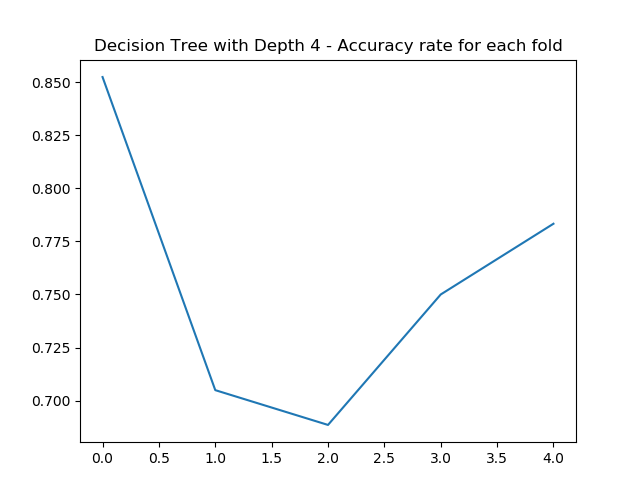
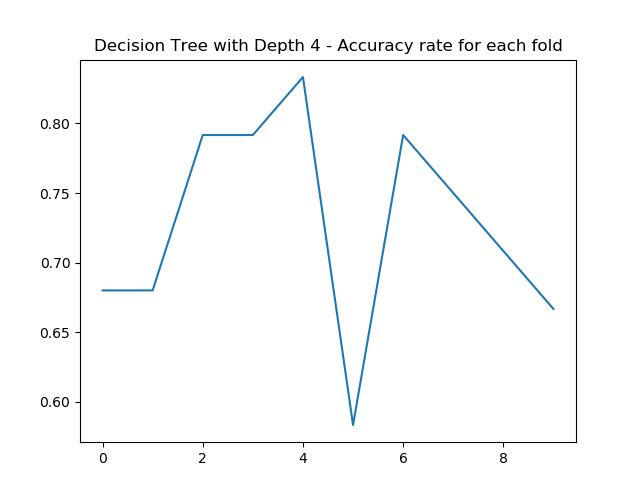
changes for Random Forest

diff --git a/RandomForest/random_forest.py b/RandomForest/random_forest.py
@@ -15,6 +15,8 @@ from sklearn.model_selection import train_test_split
 from sklearn.model_selection import KFold
 from sklearn import neighbors
 import numpy as np
+from itertools import product
+import seaborn as sns
 
 def get_accuracy(y_test,predictions):
     result = confusion_matrix(y_test, predictions)
@@ -34,8 +36,12 @@ X = df[var_cols].copy()
 Y = df[target_col].values.flatten()
 
 number_cardiac_case = sum(Y)
-number_non_spam = n - number_cardiac_case
+number_non_cardiac_cases = n - number_cardiac_case
 number_features = len(df.columns)-1
+
+print("Number of cardiac cases is " + str(number_cardiac_case))
+print("Number of non-cardiac cases is " + str(number_non_cardiac_cases))
+
 
 depth = 4
 clf = tree.DecisionTreeClassifier(max_depth=depth)
@@ -52,60 +58,60 @@ plt.show()
 # tree.plot_tree(clf.fit(X, Y), max_depth=4, fontsize=10)
 # plt.show()
 
-X_train, X_test, y_train, y_test = train_test_split(X, Y, test_size=0.2, random_state=42)
+# X_train, X_test, y_train, y_test = train_test_split(X, Y, test_size=0.2, random_state=42)
+#
+# list_depths = list(range(1,20))
+# list_miss_rate = []
+# list_roc_auc_score =[]
+# for depth in list_depths:
+#     clf = tree.DecisionTreeClassifier(max_depth=depth, random_state = 42)
+#     clf = clf.fit(X_train, y_train)
+#     predictions = clf.predict(X_test)
+#     accuracy_of_0, accuracy_of_1, total_accuracy = get_accuracy(y_test, predictions)
+#     miss_rate = 1-total_accuracy
+#     roc_score = roc_auc_score(y_test, predictions)
+#     list_miss_rate.append(miss_rate)
+#     list_roc_auc_score.append(roc_score)
+#
+# fig = plt.figure()
+# ax = plt.axes()
+# plt.title("Decision Tree - AUC score by Tree Depth")
+# plt.plot(list_depths, list_roc_auc_score)
+# plt.show()
+#
+# fig = plt.figure()
+# ax = plt.axes()
+# plt.title("Decision Tree - Misclassification rate by Tree Depth")
+# plt.plot(list_depths, list_miss_rate)
+# plt.show()
+#
+#
+# list_depths = list(range(1,20))
+# list_miss_rate = []
+# list_roc_auc_score =[]
+# for depth in list_depths:
+#     clf = RandomForestClassifier(max_depth=depth, random_state = 42)
+#     clf = clf.fit(X_train, y_train)
+#     predictions = clf.predict(X_test)
+#     accuracy_of_0, accuracy_of_1, total_accuracy = get_accuracy(y_test, predictions)
+#     miss_rate = 1-total_accuracy
+#     roc_score = roc_auc_score(y_test, predictions)
+#     list_miss_rate.append(miss_rate)
+#     list_roc_auc_score.append(roc_score)
+#
+# fig = plt.figure()
+# ax = plt.axes()
+# plt.title("Random Forest - AUC score by Tree Depth")
+# plt.plot(list_depths, list_roc_auc_score)
+# plt.show()
+#
+# fig = plt.figure()
+# ax = plt.axes()
+# plt.title("Random Forest - Misclassification rate by Tree Depth")
+# plt.plot(list_depths, list_miss_rate)
+# plt.show()
 
-list_depths = list(range(1,20))
-list_miss_rate = []
-list_roc_auc_score =[]
-for depth in list_depths:
-    clf = tree.DecisionTreeClassifier(max_depth=depth, random_state = 42)
-    clf = clf.fit(X_train, y_train)
-    predictions = clf.predict(X_test)
-    accuracy_of_0, accuracy_of_1, total_accuracy = get_accuracy(y_test, predictions)
-    miss_rate = 1-total_accuracy
-    roc_score = roc_auc_score(y_test, predictions)
-    list_miss_rate.append(miss_rate)
-    list_roc_auc_score.append(roc_score)
-
-fig = plt.figure()
-ax = plt.axes()
-plt.title("Decision Tree - AUC score by Tree Depth")
-plt.plot(list_depths, list_roc_auc_score)
-plt.show()
-
-fig = plt.figure()
-ax = plt.axes()
-plt.title("Decision Tree - Misclassification rate by Tree Depth")
-plt.plot(list_depths, list_miss_rate)
-plt.show()
-
-
-list_depths = list(range(1,20))
-list_miss_rate = []
-list_roc_auc_score =[]
-for depth in list_depths:
-    clf = RandomForestClassifier(max_depth=depth, random_state = 42)
-    clf = clf.fit(X_train, y_train)
-    predictions = clf.predict(X_test)
-    accuracy_of_0, accuracy_of_1, total_accuracy = get_accuracy(y_test, predictions)
-    miss_rate = 1-total_accuracy
-    roc_score = roc_auc_score(y_test, predictions)
-    list_miss_rate.append(miss_rate)
-    list_roc_auc_score.append(roc_score)
-
-fig = plt.figure()
-ax = plt.axes()
-plt.title("Random Forest - AUC score by Tree Depth")
-plt.plot(list_depths, list_roc_auc_score)
-plt.show()
-
-fig = plt.figure()
-ax = plt.axes()
-plt.title("Random Forest - Misclassification rate by Tree Depth")
-plt.plot(list_depths, list_miss_rate)
-plt.show()
-
-no_splits=5
+no_splits=10
 cv = KFold(n_splits=no_splits, random_state=42, shuffle=True)
 
 # ### Now doing CV fold to accurately estimate accuracy
@@ -130,7 +136,7 @@ plt.plot(list(range(no_splits)),accuracy_folds)
 print("Average Random Forest with Depth 4 accuracy is :" + str(round(np.mean(accuracy_folds),4)*100) + '%')
 plt.show()
 
-##################### DECISION TREE ##############
+#################### DECISION TREE ##############
 ### Now doing CV fold to accurately estimate accuracy
 accuracy_folds = []
 list_error = []
@@ -161,18 +167,118 @@ clf.fit(X, Y)
 df_test = pd.read_csv('../CleanedData/norm_test.csv')
 
 target_col = ['target']
-var_cols = [x for x in df.columns if x not in target_col]
-X_test = df[var_cols].copy()
-Y_test = df[target_col].values.flatten()
+var_cols = [x for x in df_test.columns if x not in target_col]
+X_test = df_test[var_cols].copy()
+Y_test = df_test[target_col].values.flatten()
 predictions = clf.predict(X_test)
 accuracy_of_0, accuracy_of_1, total_accuracy = get_accuracy(Y_test, predictions)
 miss_rate = 1 - total_accuracy
-print("Random Forest with Depth 4 validation accuracy is :" + str(round(total_accuracy,4)*100) + '%')
+roc = roc_auc_score(Y_test, predictions)
+print("Random Forest with Depth 4 testing accuracy is :" + str(round(total_accuracy,4)*100) + '%')
+print("Random Forest with Depth 4 roc score is :" + str(round(roc,4)*100) + '%')
+
+x_axis_labels = ['No Heart Disease','Heart Disease']
+y_axis_labels = ['No Heart Disease','Heart Disease']
+cf_matrix = confusion_matrix(Y_test, predictions)
+sns.heatmap(cf_matrix, annot=True, xticklabels=x_axis_labels, yticklabels=y_axis_labels)
+plt.ylabel('True class')
+plt.xlabel('Predicted class')
+plt.title('Confusion Matrix for Random Forest Testing')
+plt.show()
+
+### Check data this for our decision tree as well
+clf = tree.DecisionTreeClassifier(max_depth=4, random_state = 42)
+
+clf.fit(X, Y)
+
+df_test = pd.read_csv('../CleanedData/norm_test.csv')
+
+target_col = ['target']
+var_cols = [x for x in df_test.columns if x not in target_col]
+X_test = df_test[var_cols].copy()
+Y_test = df_test[target_col].values.flatten()
+predictions = clf.predict(X_test)
+accuracy_of_0, accuracy_of_1, total_accuracy = get_accuracy(Y_test, predictions)
+miss_rate = 1 - total_accuracy
+roc = roc_auc_score(Y_test, predictions)
+print("Decision Tree with Depth 4 testing accuracy is :" + str(round(total_accuracy,4)*100) + '%')
+print("Decision Tree Forest with Depth 4 roc score is :" + str(round(roc,4)*100) + '%')
+
+x_axis_labels = ['No Heart Disease','Heart Disease']
+y_axis_labels = ['No Heart Disease','Heart Disease']
+cf_matrix = confusion_matrix(Y_test, predictions)
+sns.heatmap(cf_matrix, annot=True, xticklabels=x_axis_labels, yticklabels=y_axis_labels)
+plt.ylabel('True class')
+plt.xlabel('Predicted class')
+plt.title('Confusion Matrix for Decision Tree Testing')
+plt.show()
 
 
-# Instantiate model with 1000 decision trees
-# rf = RandomForestClassifier(max_depth=4, random_state = 42)
-# rf.fit(X_train, y_train)
-# predictions = rf.predict(X_test)
-#
-# get_accuracy(y_test, predictions)
+## Finally plot decision boundary using model trained from 2 most key variables from logistic regression
+df = pd.read_csv('../CleanedData/norm_train.csv')
+df.fillna(0,inplace=True)
+
+n = len(df)
+target_col = ['target']
+var_cols = ['thalach','ca']
+X = df[var_cols].copy()
+Y = df[target_col]
+
+X_test = df_test[['thalach','ca']].copy()
+Y_test = df_test[target_col].copy()
+Y=Y.values.flatten()
+
+clf = RandomForestClassifier(max_depth=2, random_state = 42)
+clf.fit(X, Y)
+X = X.to_numpy()
+x_min, x_max = X[:, 0].min() - 1, X[:, 0].max() + 1
+y_min, y_max = X[:, 1].min() - 1, X[:, 1].max() + 1
+
+xx, yy = np.meshgrid(np.arange(x_min, x_max, 0.1), np.arange(y_min, y_max, 0.1))
+
+# f, axarr = plt.subplots(1, 1, sharex='col', sharey='row', figsize=(10, 8))
+fig = plt.figure()
+ax = plt.axes()
+
+# for idx, clf, tt in zip(product([0], [0]), [clf], ['RandomForest']):
+
+Z = clf.predict(np.c_[xx.ravel(), yy.ravel()])
+Z = Z.reshape(xx.shape)
+
+ax.contourf(xx, yy, Z, alpha=0.4)
+ax.scatter(X[:, 0], X[:, 1], c=Y, s=20, edgecolor='k')
+ax.set_title('Random Forest Decision Boundary with depth 2')
+plt.xlabel('thalach', fontsize=12)
+plt.ylabel('ca', fontsize=12)
+
+plt.show()
+
+
+
+## Finally show decision boundary for decision tree
+
+clf = tree.DecisionTreeClassifier(max_depth=2, random_state = 42)
+clf.fit(X, Y)
+
+x_min, x_max = X[:, 0].min() - 1, X[:, 0].max() + 1
+y_min, y_max = X[:, 1].min() - 1, X[:, 1].max() + 1
+
+xx, yy = np.meshgrid(np.arange(x_min, x_max, 0.1), np.arange(y_min, y_max, 0.1))
+
+# f, axarr = plt.subplots(1, 1, sharex='col', sharey='row', figsize=(10, 8))
+fig = plt.figure()
+ax = plt.axes()
+
+# for idx, clf, tt in zip(product([0], [0]), [clf], ['RandomForest']):
+
+Z = clf.predict(np.c_[xx.ravel(), yy.ravel()])
+Z = Z.reshape(xx.shape)
+
+ax.contourf(xx, yy, Z, alpha=0.4)
+ax.scatter(X[:, 0], X[:, 1], c=Y, s=20, edgecolor='k')
+ax.set_title('Decision Tree Decision Boundary with depth 2')
+plt.xlabel('thalach', fontsize=12)
+plt.ylabel('ca', fontsize=12)
+
+plt.show()
+
